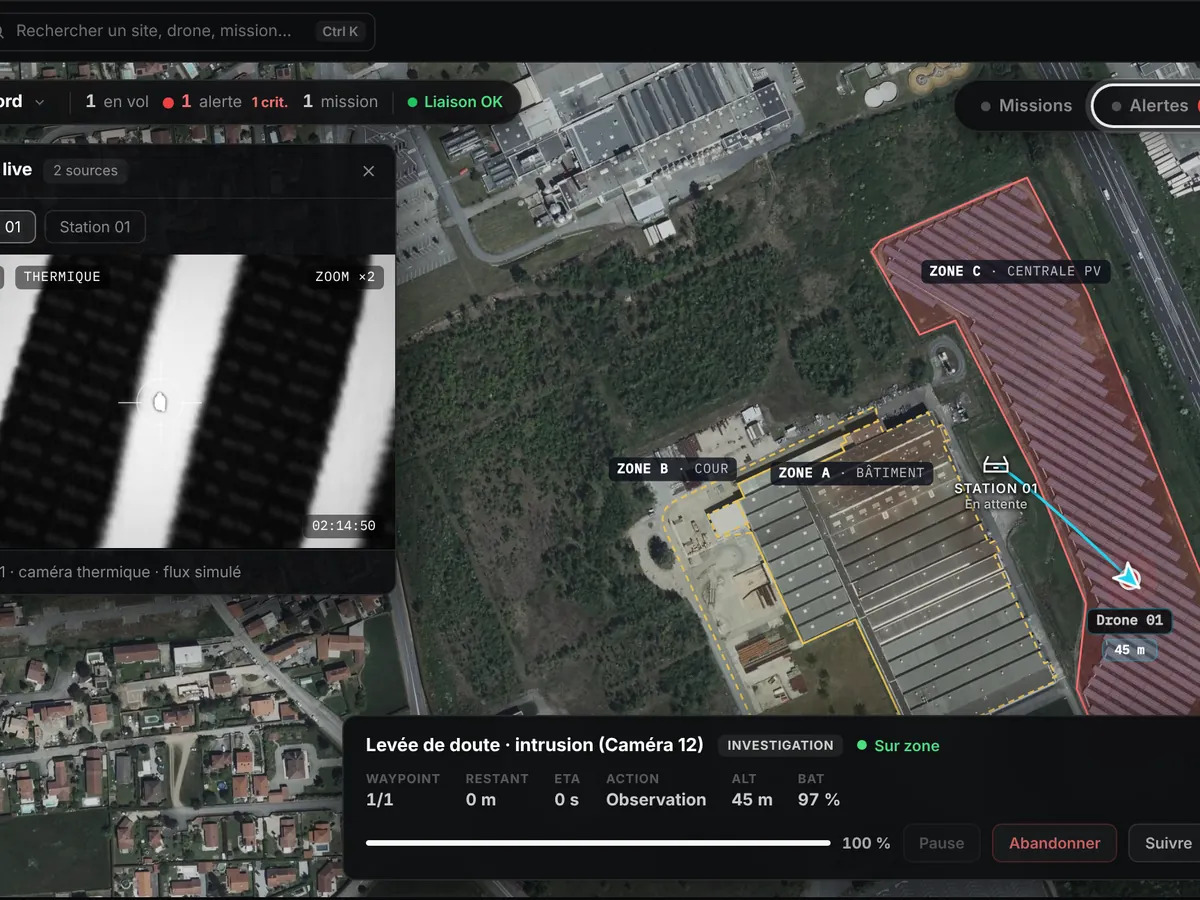
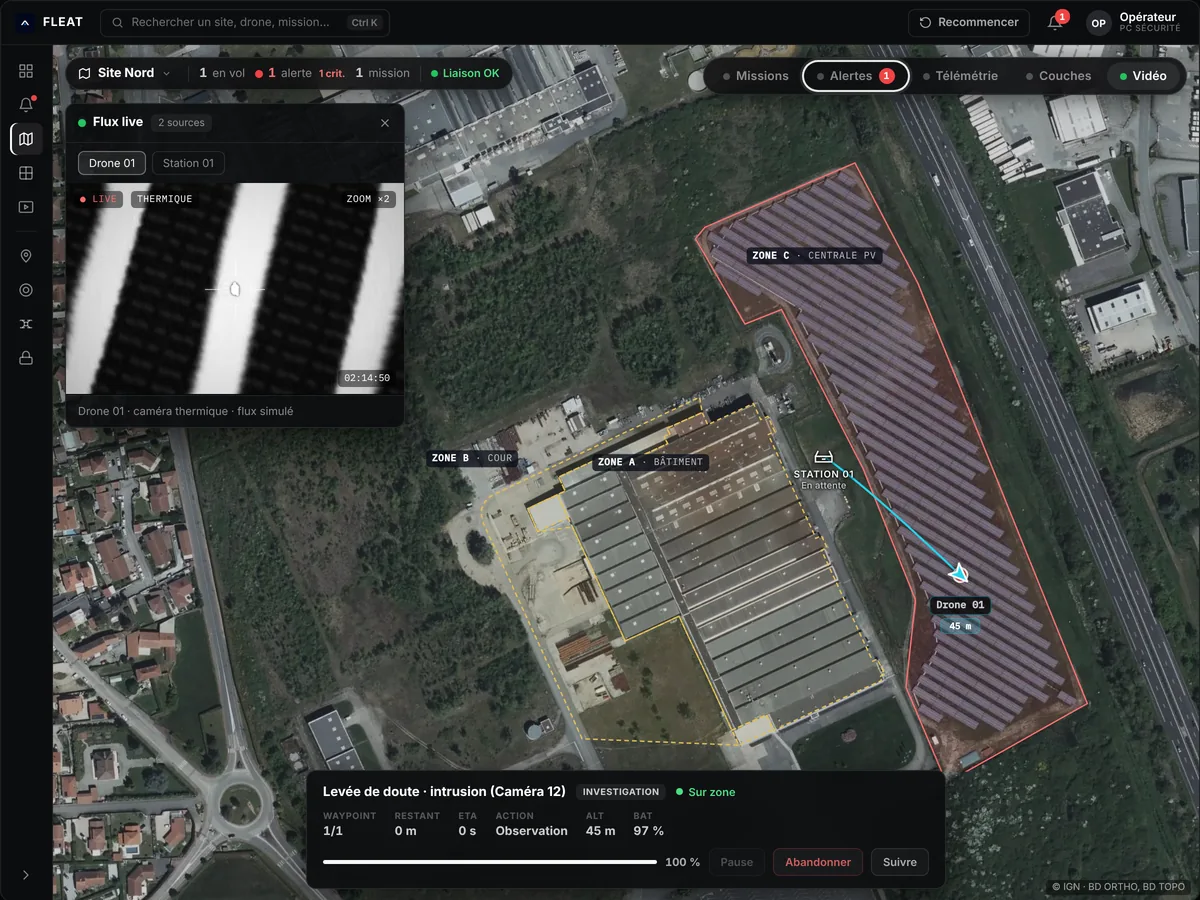
Solution · La plateforme : capture refaite et lien cadré sur la démo
- Capture de l'interface complète au format 4:3, sans panneau coupé :
  carte du site, flux thermique, drone sur zone, suivi de mission.
- Bouton retiré de l'image, remplacé par un lien Essayer l'interface
  sous la liste.
- Les liens vers la démo cadrent désormais l'interface au centre de
  l'écran, sous l'en-tête (ancre #demo-interface).

Claude-Session: https://claude.ai/code/session_01XSyXkkbdXSoiZ6CKP8q7XM

diff --git a/solution.html b/solution.html
@@ -35,12 +35,11 @@ a{color:var(--accent)}a:hover{color:var(--accent-600)}
 .sol-sec{scroll-margin-top:84px}
 .kit{display:grid;grid-template-columns:repeat(3,minmax(0,1fr));gap:clamp(20px,2.4vw,32px);margin-top:48px}
 .kit-item .ph{aspect-ratio:4/3;min-height:0}
+#demo-interface{scroll-margin-top:88px}
 .kit-shot{position:relative;display:block;aspect-ratio:4/3;border-radius:var(--r-lg);overflow:hidden;border:1px solid var(--line);background:#0a0a0a}
 .kit-shot img{width:100%;height:100%;object-fit:cover;transition:transform .5s ease}
 .kit-shot:hover img{transform:scale(1.03)}
-.kit-shot-cta{position:absolute;left:12px;bottom:12px;display:inline-flex;align-items:center;gap:7px;padding:8px 13px;border-radius:8px;background:rgba(10,11,13,.82);border:1px solid rgba(255,255,255,.16);backdrop-filter:blur(8px);color:#fff;font-size:13.5px;font-weight:600;transition:background .2s}
-.kit-shot-cta svg{width:15px;height:15px}
-.kit-shot:hover .kit-shot-cta{background:rgba(10,11,13,.95)}
+.kit-try{margin-top:14px}
 a.kit-shot-link{color:inherit}a.kit-shot-link:hover{text-decoration:underline;text-underline-offset:4px}
 .kit-item h3{font-size:1.25rem;margin-top:20px}
 .kit-item ul{display:grid;gap:8px;margin-top:12px}
@@ -158,8 +157,8 @@ a.kit-shot-link{color:inherit}a.kit-shot-link:hover{text-decoration:underline;te
 <div><h3>Le drone</h3><ul><li>Caméra visible et caméra thermique.</li><li>Vols de jour comme de nuit.</li><li>Jusqu'à 40&nbsp;ha couverts par vol, selon le site.</li></ul></div>
 </div>
 <div class="kit-item reveal" data-d="2">
-<a class="kit-shot" href="#operateur" aria-label="Voir l'interface FLEAT Control Center en démonstration"><img src="assets/plateforme-apercu.webp" srcset="assets/plateforme-apercu-640.webp 640w, assets/plateforme-apercu.webp 1200w" sizes="(max-width: 860px) 200px, 33vw" width="1200" height="900" alt="Interface FLEAT Control Center : carte du site, flux thermique du drone et suivi de mission" loading="lazy" decoding="async"><span class="kit-shot-cta">Essayer l'interface <svg viewBox="0 0 24 24" fill="none" stroke="currentColor" stroke-width="2" stroke-linecap="round" stroke-linejoin="round" aria-hidden="true"><path d="M12 5v14M6 13l6 6 6-6"/></svg></span></a>
-<div><h3><a class="kit-shot-link" href="#operateur">La plateforme</a></h3><ul><li>Carte du site et suivi du vol en direct.</li><li>Flux vidéo transmis au PC sécurité.</li><li>Historique de chaque mission.</li></ul></div>
+<a class="kit-shot" href="#demo-interface" aria-label="Voir l'interface FLEAT Control Center en démonstration"><img src="assets/plateforme-apercu.webp" srcset="assets/plateforme-apercu-640.webp 640w, assets/plateforme-apercu.webp 1200w" sizes="(max-width: 860px) 200px, 33vw" width="1200" height="900" alt="Interface FLEAT Control Center : carte du site, flux thermique du drone et suivi de mission" loading="lazy" decoding="async"></a>
+<div><h3><a class="kit-shot-link" href="#demo-interface">La plateforme</a></h3><ul><li>Carte du site et suivi du vol en direct.</li><li>Flux vidéo transmis au PC sécurité.</li><li>Historique de chaque mission.</li></ul><a class="btn-link kit-try" href="#demo-interface">Essayer l'interface <svg viewBox="0 0 24 24" fill="none" stroke="currentColor" stroke-width="2" stroke-linecap="round" stroke-linejoin="round" aria-hidden="true"><path d="M12 5v14M6 13l6 6 6-6"/></svg></a></div>
 </div>
 </div>
 </div>
@@ -199,7 +198,7 @@ a.kit-shot-link{color:inherit}a.kit-shot-link:hover{text-decoration:underline;te
 <section class="section bg-dark sol-sec" id="operateur" data-screen-label="Opérateur">
 <div class="container">
 <div class="section-head reveal"><span class="eyebrow">03 · Côté opérateur</span><h2 class="h2">Tout le suivi dans une seule interface.</h2><p class="lead">Prenez la place de l'opérateur. Traitez une alerte du début à la fin.</p></div>
-<div class="fcc-wrap reveal">
+<div class="fcc-wrap reveal" id="demo-interface">
 <div class="fcc" id="fcc" data-state="alert" data-ctx="0" data-video="0" data-layer="sat" role="region" aria-label="Démonstration interactive de FLEAT Control Center">
 <div class="fcc-top">
 <span class="fcc-brand"><img src="assets/fleat-mark.png" alt="" width="20" height="20">FLEAT</span>

diff --git a/fcc-demo.js b/fcc-demo.js
@@ -517,6 +517,18 @@
   document.addEventListener('visibilitychange', function () { if (document.hidden) halt(); else run(); });
   window.addEventListener('resize', function () { layout(true); placeCoach(); });
 
+  /* Liens vers la démo : cadrer l'interface au centre de l'écran, sous l'en-tête */
+  document.querySelectorAll('a[href="#demo-interface"]').forEach(function (l) {
+    l.addEventListener('click', function (e) {
+      e.preventDefault();
+      var head = (document.querySelector('.site-header') || {}).offsetHeight || 0;
+      var r = root.getBoundingClientRect(), avail = window.innerHeight - head;
+      var off = r.height < avail ? (avail - r.height) / 2 : 12;
+      window.scrollTo({ top: window.scrollY + r.top - head - off, behavior: reduced ? 'auto' : 'smooth' });
+      if (history.replaceState) history.replaceState(null, '', '#demo-interface');
+    });
+  });
+
   /* Glisser la carte au clic gauche (souris uniquement, le tactile garde le défilement de la page) */
   var drag = null;
   mapwrap.addEventListener('pointerdown', function (e) {
